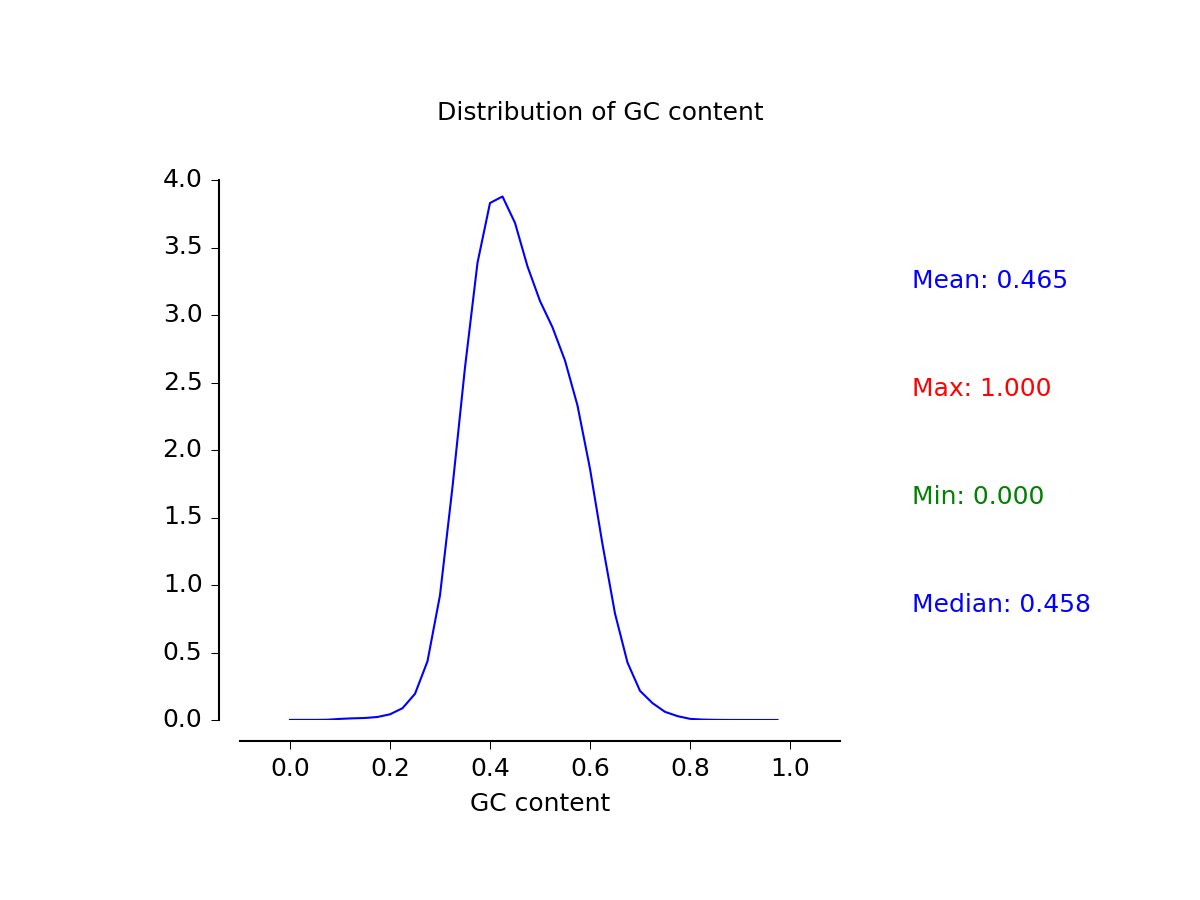
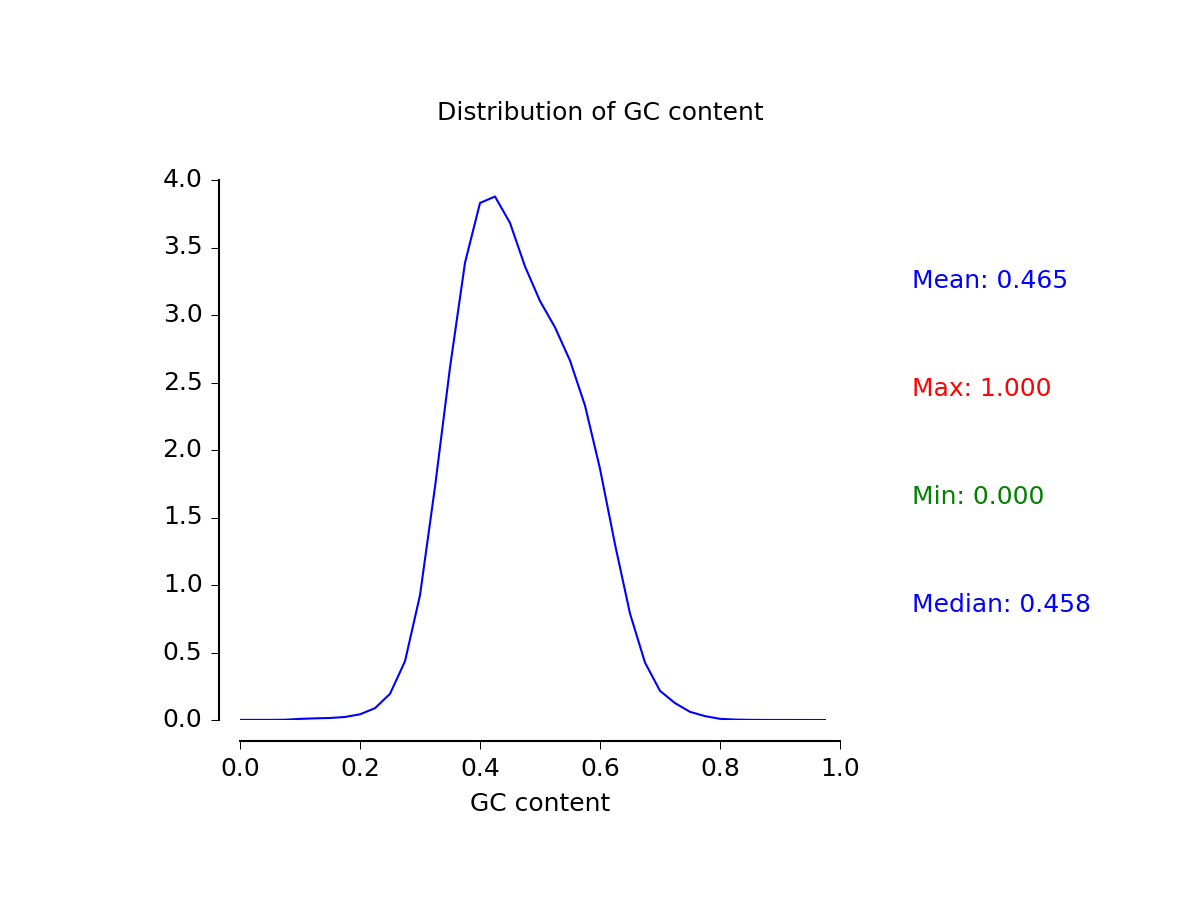
axis setting and bug fixed 0

diff --git a/my_script/1_class0/fastq_analysis.py b/my_script/1_class0/fastq_analysis.py
@@ -4,7 +4,7 @@ import matplotlib.pyplot as plt
 import numpy as np
 from scipy import stats
 import os
-
+ 
 def density_plot(data_list,xlabel,title):
     fig = plt.figure(1)
     fig.patch.set_facecolor('w')
@@ -14,7 +14,7 @@ def density_plot(data_list,xlabel,title):
     x = np.arange(min(data_list),max(data_list),data_range/40)
     ax.plot(x, density(x),'b-')
     # axis seting
-    ax.set_xlim([min(data_list)-data_range/10,max(data_list)+data_range/10])
+    ax.set_xlim([int(min(data_list)-data_range/10),int(max(data_list)+data_range/10)])
     ax.spines['top'].set_visible(False)
     ax.spines['right'].set_visible(False)
     ax.get_xaxis().tick_bottom()
@@ -24,6 +24,7 @@ def density_plot(data_list,xlabel,title):
     ax.spines['left'].set_position(('outward', 10))
     ax.spines['bottom'].set_position(('outward', 10))
     ax.set_xlabel(xlabel)
+    ax.set_xticks(np.linspace(int(min(data_list)-data_range/10),int(max(data_list)+data_range/10),6))
     # text seting
     ax_stats = fig.add_axes([0.76,0.2,0.2,0.6])
     ax_stats.set_axis_off()
@@ -35,7 +36,7 @@ def density_plot(data_list,xlabel,title):
     fig.savefig('density_'+xlabel, dpi=150)
     plt.show()
     print('\nFigure saved in {0}\n'.format(str(os.path.join(os.getcwd(),'density_'+xlabel))))
-    
+     
 def cut_53(file, cut_5, cut_3):
     with open(file, 'r') as f:
         new_file = ''
@@ -58,8 +59,8 @@ def cut_53(file, cut_5, cut_3):
             else:
                 break
     return(new_file) 
-                
-
+                 
+ 
 def fastq2fasta(file):
     new_file = ''
     with open(file,'r') as f:
@@ -74,7 +75,7 @@ def fastq2fasta(file):
             else:
                 break
     return(new_file)
-
+ 
 def length_count(file):
     length_list = []
     with open(file,'r') as f:
@@ -91,12 +92,12 @@ def length_count(file):
                 break
     print('\n\nPloting...\n')
     density_plot(length_list, xlabel='length',title='Distribution of length')
-    result = ('\nmedian length is {0}\nmaxium length is {1}\nminium length is {2}\n'.format(sum(length_list)/len(length_list),max(length_list),min(length_list)))
+    result = ('\nmean length is {0}\nmaxium length is {1}\nminium length is {2}\n'.format(sum(length_list)/len(length_list),max(length_list),min(length_list)))
     print(result)
     plt.show()
     return(result)
-
-
+ 
+ 
 def count_GCN(file):
     print("Waiting for a moment:")
     count_dict = {}
@@ -121,8 +122,8 @@ def count_GCN(file):
     print("Ploting...\n")
     density_plot(gc_list, xlabel="GC content",title="Distribution of GC content")
     return(count_dict)
-
-
+ 
+ 
 def main():
     import argparse
     parser = argparse.ArgumentParser()
@@ -153,12 +154,9 @@ def main():
             raise ValueError('cut value can not be negative!!!')
     if cut3 + cut5 != 0:
         cut_53(args.file, cut5,cut3)
-
-
-
-
+ 
+ 
+ 
+ 
 if __name__ == '__main__':
     main()
-
-
-
